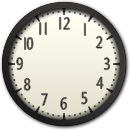
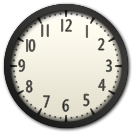
Fix hand positioning issues

diff --git a/contents/ui/main.qml b/contents/ui/main.qml
@@ -88,6 +88,8 @@ PlasmoidItem {
 
             anchors.margins: 10
 
+            property real offsetSize: 0.95
+
             Image {
                 id: face
                 anchors.centerIn: parent
@@ -101,8 +103,8 @@ PlasmoidItem {
                 source: "../images/trad_h.png"
                 rotation: hours * 30 + (minutes/2)
                 z: 997
-                width: face.width / 10
-                height: face.height
+                width: (face.width * clock.offsetSize) / 10
+                height: face.height * clock.offsetSize
                 anchors.centerIn: parent
             }
 
@@ -110,8 +112,8 @@ PlasmoidItem {
                 source: "../images/trad_m.png"
                 rotation: minutes * 6
                 z: 998
-                width: face.width / 10
-                height: face.height
+                width: (face.width * clock.offsetSize) / 10
+                height: face.height * clock.offsetSize
                 anchors.centerIn: parent
             }
 
@@ -120,8 +122,8 @@ PlasmoidItem {
                 source: "../images/trad_s.png"
                 rotation: seconds * 6
                 z: 999
-                width: face.width / 10
-                height: face.height
+                width: (face.width * clock.offsetSize) / 10
+                height: face.height * clock.offsetSize
                 anchors.centerIn: parent
             }
 
@@ -130,8 +132,8 @@ PlasmoidItem {
                 anchors.centerIn: parent
                 source: "../images/trad_dot.png"
                 z: 1000
-                width: face.width / 10
-                height: face.height
+                width: (face.width * clock.offsetSize) / 10
+                height: face.height * clock.offsetSize
             }
         }
     }
